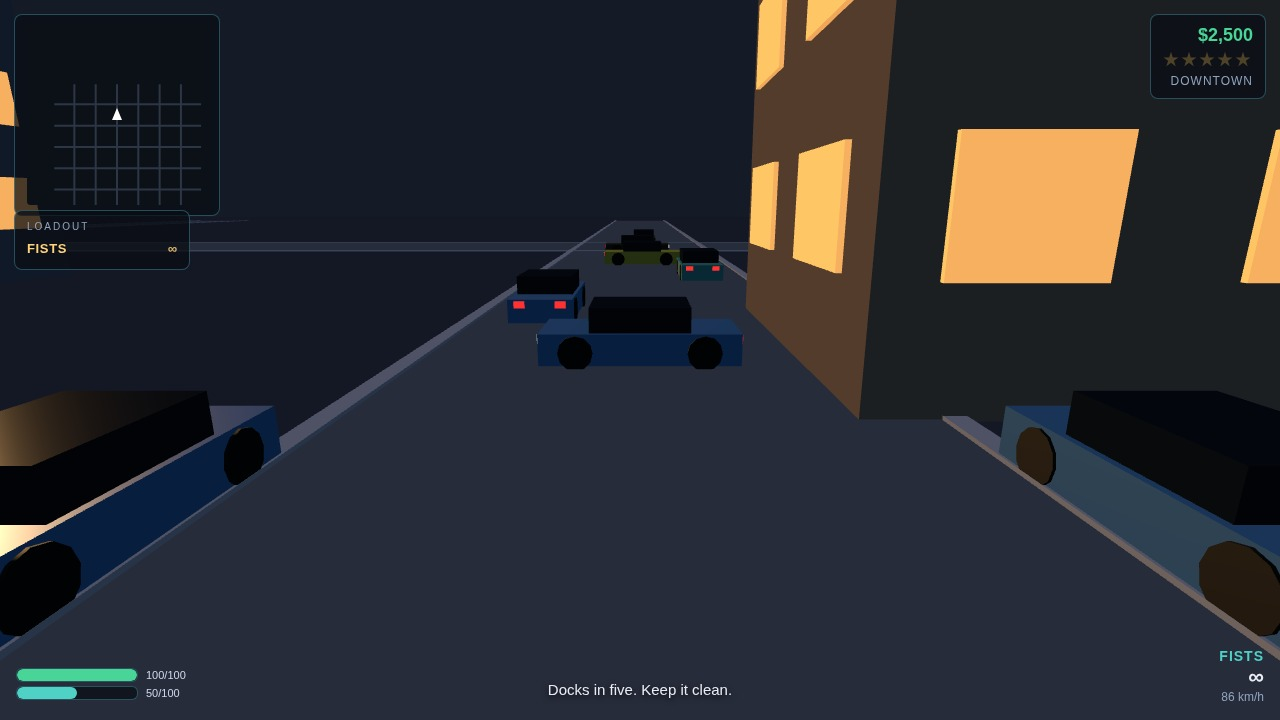
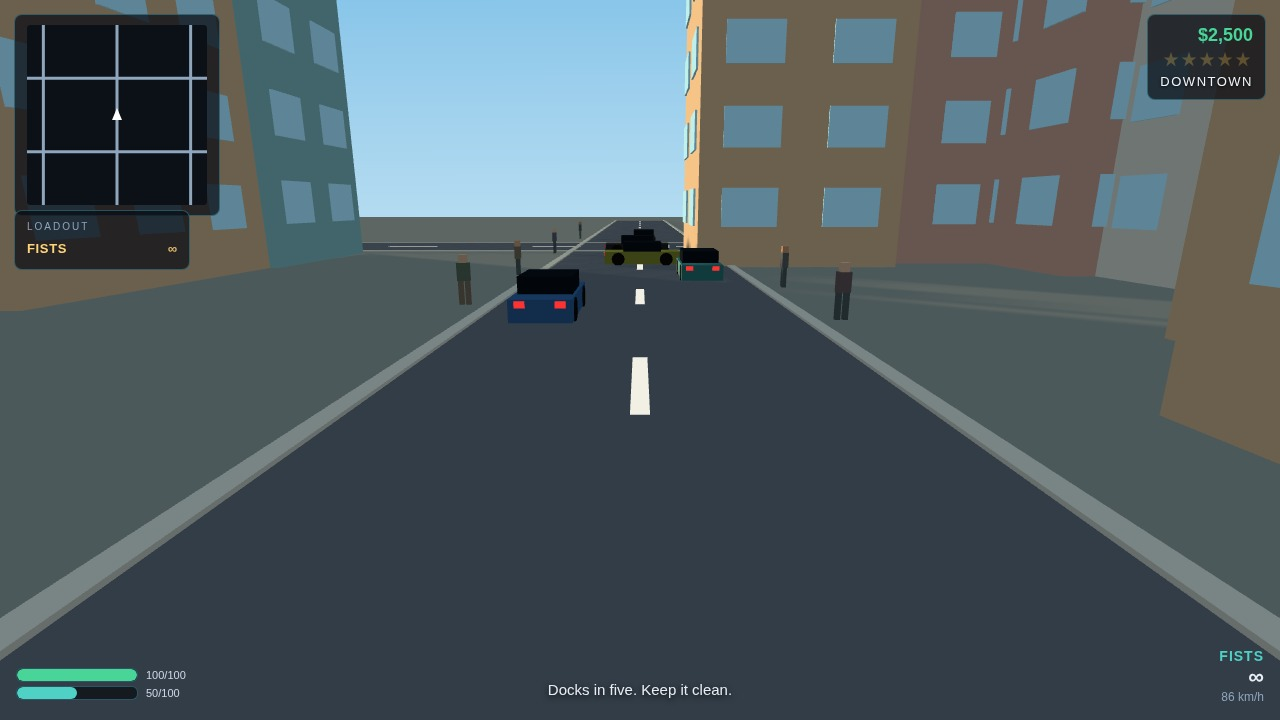
Light the city for daylight and populate the street

diff --git a/game/src/city.js b/game/src/city.js
@@ -13,6 +13,9 @@ function mulberry32(seed) {
 export function createCity(scene, options = {}) {
   const rand = mulberry32(options.seed ?? 1337);
   const group = new THREE.Group();
+  group.traverse((o) => {
+    if (o.isMesh) { o.castShadow = true; o.receiveShadow = true; }
+  });
   if (scene) scene.add(group);
   const roads = [];
   const buildings = [];
@@ -24,15 +27,15 @@ export function createCity(scene, options = {}) {
     { name: 'Old Town', x: -120, z: -140, radius: 80 },
   ];
 
-  const matGround = new THREE.MeshLambertMaterial({ color: 0x2b3040 });
-  const matRoad = new THREE.MeshLambertMaterial({ color: 0x4a5162 });
-  const matKerb = new THREE.MeshLambertMaterial({ color: 0x8a90a0 });
-  const matSand = new THREE.MeshLambertMaterial({ color: 0xd9c49a });
-  const matWater = new THREE.MeshLambertMaterial({ color: 0x1d4a63 });
-  const facadeMats = [0x4a4f5e, 0x5a5148, 0x3f4657, 0x6a5d52].map(c => new THREE.MeshLambertMaterial({ color: c }));
-  const matWindow = new THREE.MeshStandardMaterial({ color: 0xffb15e, emissive: 0xffb15e, emissiveIntensity: 0.85 });
-  const matLamp = new THREE.MeshLambertMaterial({ color: 0x7c8496 });
-  const matLampGlow = new THREE.MeshStandardMaterial({ color: 0xffcf8a, emissive: 0xffb15e, emissiveIntensity: 2.2 });
+  const matGround = new THREE.MeshLambertMaterial({ color: 0x8d8f88 });
+  const matRoad = new THREE.MeshLambertMaterial({ color: 0x5f646c });
+  const matKerb = new THREE.MeshLambertMaterial({ color: 0xd8d2c4 });
+  const matSand = new THREE.MeshLambertMaterial({ color: 0xe8d5a8 });
+  const matWater = new THREE.MeshLambertMaterial({ color: 0x2a9db8 });
+  const facadeMats = [0xe8e0d0, 0xd9a894, 0x8fc4c4, 0xe0b890].map(c => new THREE.MeshLambertMaterial({ color: c }));
+  const matWindow = new THREE.MeshStandardMaterial({ color: 0x9fd4e8, emissive: 0x9fd4e8, emissiveIntensity: 0.12 });
+  const matLamp = new THREE.MeshLambertMaterial({ color: 0x9aa0a8 });
+  const matLampGlow = new THREE.MeshStandardMaterial({ color: 0xfff4e0, emissive: 0xfff4e0, emissiveIntensity: 0.35 });
   const matTrunk = new THREE.MeshLambertMaterial({ color: 0x7a5c3c });
   const matFrond = new THREE.MeshLambertMaterial({ color: 0x3f9a4c });
   const containerMats = [0xc9453f, 0x2b9c9c, 0xd8b03a].map(c => new THREE.MeshLambertMaterial({ color: c }));
@@ -53,7 +56,24 @@ export function createCity(scene, options = {}) {
   water.position.set(285, 0.06, 285);
   group.add(water);
 
+  const matDash = new THREE.MeshBasicMaterial({ color: 0xf2f0e4 });
   const roadLen = 620;
+  const addLaneDashes = (cx, cz, len, axis) => {
+    const step = 12;
+    const n = Math.floor(len / step);
+    for (let i = 0; i < n; i++) {
+      const t = -len / 2 + i * step + step / 2;
+      const d = new THREE.Mesh(unitBox, matDash);
+      if (axis === 'x') {
+        d.scale.set(4, 0.02, 0.34);
+        d.position.set(cx + t, 0.055, cz);
+      } else {
+        d.scale.set(0.34, 0.02, 4);
+        d.position.set(cx, 0.055, cz + t);
+      }
+      group.add(d);
+    }
+  };
   const roadPositions = [-225, -135, -45, 45, 135, 225];
   const addKerb = (cx, cz, len, axis) => {
     const off = 5 + 0.2;
@@ -76,6 +96,7 @@ export function createCity(scene, options = {}) {
     group.add(road);
     roads.push({ x: 0, z, w: roadLen, d: 10, axis: 'x' });
     addKerb(0, z, roadLen, 'x');
+    addLaneDashes(0, z, roadLen, 'x');
   }
   for (const x of roadPositions) {
     const road = new THREE.Mesh(unitBox, matRoad);
@@ -84,6 +105,7 @@ export function createCity(scene, options = {}) {
     group.add(road);
     roads.push({ x, z: 0, w: 10, d: roadLen, axis: 'z' });
     addKerb(x, 0, roadLen, 'z');
+    addLaneDashes(x, 0, roadLen, 'z');
   }
 
   const windowInstances = [];
@@ -130,10 +152,10 @@ export function createCity(scene, options = {}) {
     for (let iz = 0; iz < roadPositions.length - 1; iz++) {
       const xMin = roadPositions[ix] + 5, xMax = roadPositions[ix + 1] - 5;
       const zMin = roadPositions[iz] + 5, zMax = roadPositions[iz + 1] - 5;
-      for (let b = 0; b < 5; b++) placeBuilding(xMin, xMax, zMin, zMax);
+      for (let b = 0; b < 16; b++) placeBuilding(xMin, xMax, zMin, zMax);
     }
   }
-  for (let i = 0; i < 5; i++) placeBuilding(-40, 40, -40, 40);
+  for (let i = 0; i < 10; i++) placeBuilding(-40, 40, -40, 40);
 
   if (windowInstances.length > 0) {
     const winMesh = new THREE.InstancedMesh(unitBox, matWindow, windowInstances.length);
@@ -199,7 +221,7 @@ export function createCity(scene, options = {}) {
     }
   }
 
-  if (!scene.fog) scene.fog = new THREE.Fog(0x0d1520, 60, 320);
+  if (!scene.fog) scene.fog = new THREE.Fog(0x9fd0e8, 220, 900);
 
   let clock = 0;
   return {

diff --git a/game/src/shots.js b/game/src/shots.js
@@ -69,7 +69,7 @@ export class Shots {
     this.game = game;
     window.__game = game;
     const { shot, seed } = shotFromQuery();
-    if (shot) this.stage(shot, seed);
+    this.pending = shot ? { shot, seed } : null;
   }
 
   stage(name, seed) {
@@ -205,13 +205,22 @@ export class Shots {
 
   spawnEnemies(entries) {
     const combat = this.game.combat;
-    if (!combat) return;
-    const spawn = combat.spawnEnemies || combat.spawnHostiles || combat.spawn;
-    if (typeof spawn === 'function') {
-      spawn.call(combat, entries);
-      return;
+    if (!combat) return [];
+    // Combat exposes spawnEnemy(x, z, options); fall back to repositioning
+    // any pre-built enemies when that method is missing.
+    if (typeof combat.spawnEnemy === 'function') {
+      const made = [];
+      for (const e of entries) {
+        const enemy = combat.spawnEnemy(e.x, e.z, { health: 100 });
+        if (enemy) {
+          if (enemy.mesh) enemy.mesh.visible = true;
+          setHeadingOn(enemy, e.heading);
+          made.push(enemy);
+        }
+      }
+      return made;
     }
-    const actors = combat.enemies || combat.hostiles || [];
+    const actors = combat.enemies || [];
     entries.forEach((e, i) => {
       const a = actors[i];
       if (!a) return;
@@ -219,6 +228,7 @@ export class Shots {
       setXZ(mesh && mesh.position ? mesh.position : mesh, e.x, e.z);
       setHeadingOn(a, e.heading);
     });
+    return actors.slice(0, entries.length);
   }
 
   setWeather(weather, time) {
@@ -267,8 +277,14 @@ export class Shots {
     }
     this.pinTraffic(traffic);
     this.pinPedestrians([
-      { x: x + 7, z: z + 5, heading: Math.PI },
-      { x: x - 7, z: z + 8, heading: 0 },
+      { x: x + 6.2, z: z - 11, heading: Math.PI },
+      { x: x - 6.2, z: z - 14, heading: 0 },
+      { x: x + 6.2, z: z - 19, heading: Math.PI },
+      { x: x - 6.2, z: z - 24, heading: 0 },
+      { x: x + 6.2, z: z - 31, heading: Math.PI },
+      { x: x - 6.2, z: z - 38, heading: 0 },
+      { x: x + 6.2, z: z - 48, heading: Math.PI },
+      { x: x - 6.2, z: z - 58, heading: 0 },
     ]);
     this.positionCamera(11, 5, 20, x, z, heading);
     return this.describe('drive', {
@@ -318,12 +334,19 @@ export class Shots {
     const px = ox;
     const pz = oz + 24; // 24 m south of the objective marker
     const player = this.game.player;
+    if (typeof player.exitCar === 'function' && player.inCar) player.exitCar();
+    if (player.mesh) player.mesh.visible = true;
     setXZ(player.position, px, pz);
     if (typeof player.setHeading === 'function') player.setHeading(heading);
+    if (player.mesh) player.mesh.position.copy(player.position);
     if (this.game.police && typeof this.game.police.addHeat === 'function') {
       this.game.police.addHeat(1);
     }
-    this.pinPedestrians([{ x: px + 4, z: pz - 1, heading: heading }]);
+    this.pinPedestrians([
+      { x: px + 3.4, z: pz - 6, heading: Math.PI },
+      { x: px - 3.4, z: pz - 13, heading: 0 },
+      { x: px + 3.4, z: pz - 21, heading: Math.PI },
+    ]);
     this.positionCamera(7, 3.5, 24, px, pz, heading);
     return this.describe('mission', {
       description: 'on foot 24 m south of the objective marker',
@@ -340,8 +363,11 @@ export class Shots {
     const z = 180;
     const heading = 0; // north
     const player = this.game.player;
+    if (typeof player.exitCar === 'function' && player.inCar) player.exitCar();
+    if (player.mesh) player.mesh.visible = true;
     setXZ(player.position, x, z);
     if (typeof player.setHeading === 'function') player.setHeading(heading);
+    if (player.mesh) player.mesh.position.copy(player.position);
     if (this.game.police && typeof this.game.police.addHeat === 'function') {
       this.game.police.addHeat(3);
     }
@@ -370,6 +396,9 @@ export class Shots {
   // --- HUD + finalize ---
 
   finalize(result) {
+    // Show the reticle for on-foot weapon shots, hide it for driving shots.
+    const cross = document.getElementById('crosshair');
+    if (cross) cross.classList.toggle('on', result.onFoot === true && !!result.weapon);
     // Hide the start and pause screens so only the HUD is captured.
     if (this.game.startScreen) this.game.startScreen.classList.add('hidden');
     if (this.game.pauseScreen) this.game.pauseScreen.classList.add('hidden');

diff --git a/game/src/main.js b/game/src/main.js
@@ -41,10 +41,24 @@ export class Game {
     });
     this.renderer.setPixelRatio(Math.min(window.devicePixelRatio || 1, 2));
     this.renderer.setSize(window.innerWidth, window.innerHeight);
+    this.renderer.shadowMap.enabled = true;
+    this.renderer.shadowMap.type = THREE.PCFSoftShadowMap;
 
     this.scene = new THREE.Scene();
-    this.scene.background = new THREE.Color(0x141a26);
-    this.scene.fog = new THREE.Fog(0x141a26, 140, 700);
+    const skyCanvas = document.createElement('canvas');
+    skyCanvas.width = 2; skyCanvas.height = 256;
+    const sctx = skyCanvas.getContext('2d');
+    const grad = sctx.createLinearGradient(0, 0, 0, 256);
+    grad.addColorStop(0.0, '#3f8fd0');
+    grad.addColorStop(0.45, '#8ec9e8');
+    grad.addColorStop(0.72, '#d6ebf5');
+    grad.addColorStop(1.0, '#f6e7c8');
+    sctx.fillStyle = grad;
+    sctx.fillRect(0, 0, 2, 256);
+    const skyTex = new THREE.CanvasTexture(skyCanvas);
+    skyTex.magFilter = THREE.LinearFilter;
+    this.scene.background = skyTex;
+    this.scene.fog = new THREE.Fog(0x9fd0e8, 220, 900);
 
     this.camera = new THREE.PerspectiveCamera(
       60,
@@ -54,12 +68,23 @@ export class Game {
     );
     this.camera.position.set(0, 4, 12);
 
-    const hemi = new THREE.HemisphereLight(0x8fb3d9, 0x2c3138, 1.35);
-    const sun = new THREE.DirectionalLight(0xffc37d, 2.2);
+    const hemi = new THREE.HemisphereLight(0xcfeaf8, 0x7a6a52, 1.15);
+    const sun = new THREE.DirectionalLight(0xfff0c8, 4.2);
     sun.position.set(-90, 28, -70);
-    sun.castShadow = false;
-    const ambient = new THREE.AmbientLight(0x404a5c, 0.85);
-    this.scene.add(hemi, sun, ambient);
+    sun.castShadow = true;
+    sun.shadow.mapSize.set(2048, 2048);
+    sun.shadow.camera.left = -260;
+    sun.shadow.camera.right = 260;
+    sun.shadow.camera.top = 260;
+    sun.shadow.camera.bottom = -260;
+    sun.shadow.camera.near = 1;
+    sun.shadow.camera.far = 700;
+    sun.shadow.bias = -0.0006;
+    sun.shadow.normalBias = 0.02;
+    this.sun = sun;
+    this.sunOffset = new THREE.Vector3(-120, 16, -95);
+    const ambient = new THREE.AmbientLight(0x9fb4c8, 0.42);
+    this.scene.add(hemi, sun, ambient, sun.target);
 
     this.city = createCity(this.scene, {});
     this.player = new Player(this.scene, {});
@@ -71,6 +96,9 @@ export class Game {
     this.hud = new Hud();
     this.save = new Save();
     this.shots = new Shots(this);
+    this.scene.traverse((o) => {
+      if (o.isMesh) { o.castShadow = true; o.receiveShadow = true; }
+    });
 
     this.createParkedCars();
     this.bindInput();
@@ -208,6 +236,23 @@ export class Game {
     this.camera.aspect = window.innerWidth / window.innerHeight;
     this.camera.updateProjectionMatrix();
     this.renderer.setSize(window.innerWidth, window.innerHeight);
+    this.renderer.shadowMap.enabled = true;
+    this.renderer.shadowMap.type = THREE.PCFSoftShadowMap;
+  }
+
+  followSun() {
+    if (!this.sun) return;
+    const p = this.camera.position;
+    this.sun.target.position.set(p.x, 0, p.z);
+    this.sun.target.updateMatrixWorld();
+    this.sun.position.copy(this.sunOffset).add(this.sun.target.position);
+    this.sun.updateMatrixWorld();
+  }
+
+  enableShadows() {
+    this.scene.traverse((o) => {
+      if (o.isMesh && !o.castShadow) { o.castShadow = true; o.receiveShadow = true; }
+    });
   }
 
   tick() {
@@ -486,7 +531,7 @@ export class Game {
         .filter((blip) => blip !== null),
       waypoint: this.getWaypoint(),
       player: { x: p.position.x, z: p.position.z },
-      range: 760,
+      range: 220,
       heading: p.heading,
     };
   }
@@ -677,6 +722,8 @@ function boot() {
   const query = shotFromQuery();
   if (query && query.shot) {
     game.shots.stage(query.shot, query.seed);
+    game.enableShadows();
+    game.followSun();
   }
 }
 

diff --git a/game/index.html b/game/index.html
@@ -29,6 +29,11 @@
     #hud .label { font-size: 10px; letter-spacing: 2px; text-transform: uppercase; color: #8fa3bd; margin: 0 0 6px; }
 
     #minimap-wrap { position: absolute; top: 14px; left: 14px; }
+    #crosshair { position: absolute; left: 50%; top: 50%; width: 26px; height: 26px; margin: -13px 0 0 -13px; display: none; pointer-events: none; }
+    #crosshair.on { display: block; }
+    #crosshair::before, #crosshair::after { content: ''; position: absolute; background: #eaf6ff; box-shadow: 0 0 4px rgba(0,0,0,0.9); }
+    #crosshair::before { left: 50%; top: 0; width: 2px; height: 100%; margin-left: -1px; }
+    #crosshair::after { top: 50%; left: 0; height: 2px; width: 100%; margin-top: -1px; }
     #minimap { display: block; border-radius: 4px; background: rgba(10,13,20,0.55); }
 
     #loadout-panel { position: absolute; top: 210px; left: 14px; min-width: 150px; }
@@ -40,7 +45,7 @@
     #cash-block { position: absolute; top: 14px; right: 14px; text-align: right; }
     #cash-line { font-size: 18px; font-weight: 700; color: #48d597; }
     #stars-line { font-size: 16px; color: #f6c453; letter-spacing: 2px; margin-bottom: 4px; }
-    #district-line { font-size: 12px; letter-spacing: 1px; text-transform: uppercase; color: #8fa3bd; margin-top: 0; }
+    #district-line { font-size: 13px; letter-spacing: 1.5px; text-transform: uppercase; color: #f2f6fb; margin-top: 0; text-shadow: 0 1px 3px rgba(0,0,0,0.9); }
 
     .star { color: #f6c453; }
     .star.empty { color: rgba(246,196,83,0.28); }
@@ -51,10 +56,10 @@
     #mission-objective { font-size: 13px; color: #e8ecf4; line-height: 1.45; }
     #mission-reward { font-size: 12px; color: #48d597; margin-top: 8px; }
 
-    #police-panel { position: absolute; top: 190px; right: 14px; min-width: 240px; }
+    #police-panel { position: absolute; top: 178px; right: 14px; min-width: 240px; }
     #police-count { font-size: 14px; font-weight: 700; color: #e25555; margin-bottom: 6px; }
-    #police-list { list-style: none; margin: 0; padding: 0; max-height: 110px; overflow-y: auto; }
-    #police-list .police-row { font-size: 12px; color: #f0b9b9; }
+    #police-list { list-style: none; margin: 0; padding: 0; max-height: none; overflow: visible; }
+    #police-list .police-row { font-size: 12px; color: #f0b9b9; line-height: 1.35; }
     .weapon-ammo, .police-distance { margin-left: auto; opacity: .85; }
 
     #bars { position: absolute; bottom: 16px; left: 16px; }
@@ -79,6 +84,7 @@
   <canvas id="game"></canvas>
 
   <div id="hud" class="hidden">
+    <div id="crosshair"></div>
     <div id="minimap-wrap" class="panel">
       <canvas id="minimap" width="180" height="180"></canvas>
     </div>

diff --git a/game/src/hud.js b/game/src/hud.js
@@ -169,8 +169,8 @@ export class Hud {
     ctx.fillRect(0, 0, w, h);
 
     // Roads.
-    ctx.strokeStyle = '#2c3644';
-    ctx.lineWidth = 2;
+    ctx.strokeStyle = '#8fa6bd';
+    ctx.lineWidth = 3;
     ctx.beginPath();
     for (const road of state.roads || []) {
       const segments = this._isSegment(road) ? [road] : road;
@@ -188,12 +188,12 @@ export class Hud {
     ctx.stroke();
 
     // Police units as small blue dots.
-    ctx.fillStyle = '#3b82f6';
+    ctx.fillStyle = '#ff4d4d';
     for (const unit of state.police || []) {
       const [x, z] = this._pointXY(unit);
       const [cx, cy] = toCanvas(x, z);
       ctx.beginPath();
-      ctx.arc(cx, cy, 3, 0, Math.PI * 2);
+      ctx.arc(cx, cy, 5, 0, Math.PI * 2);
       ctx.fill();
     }
 
